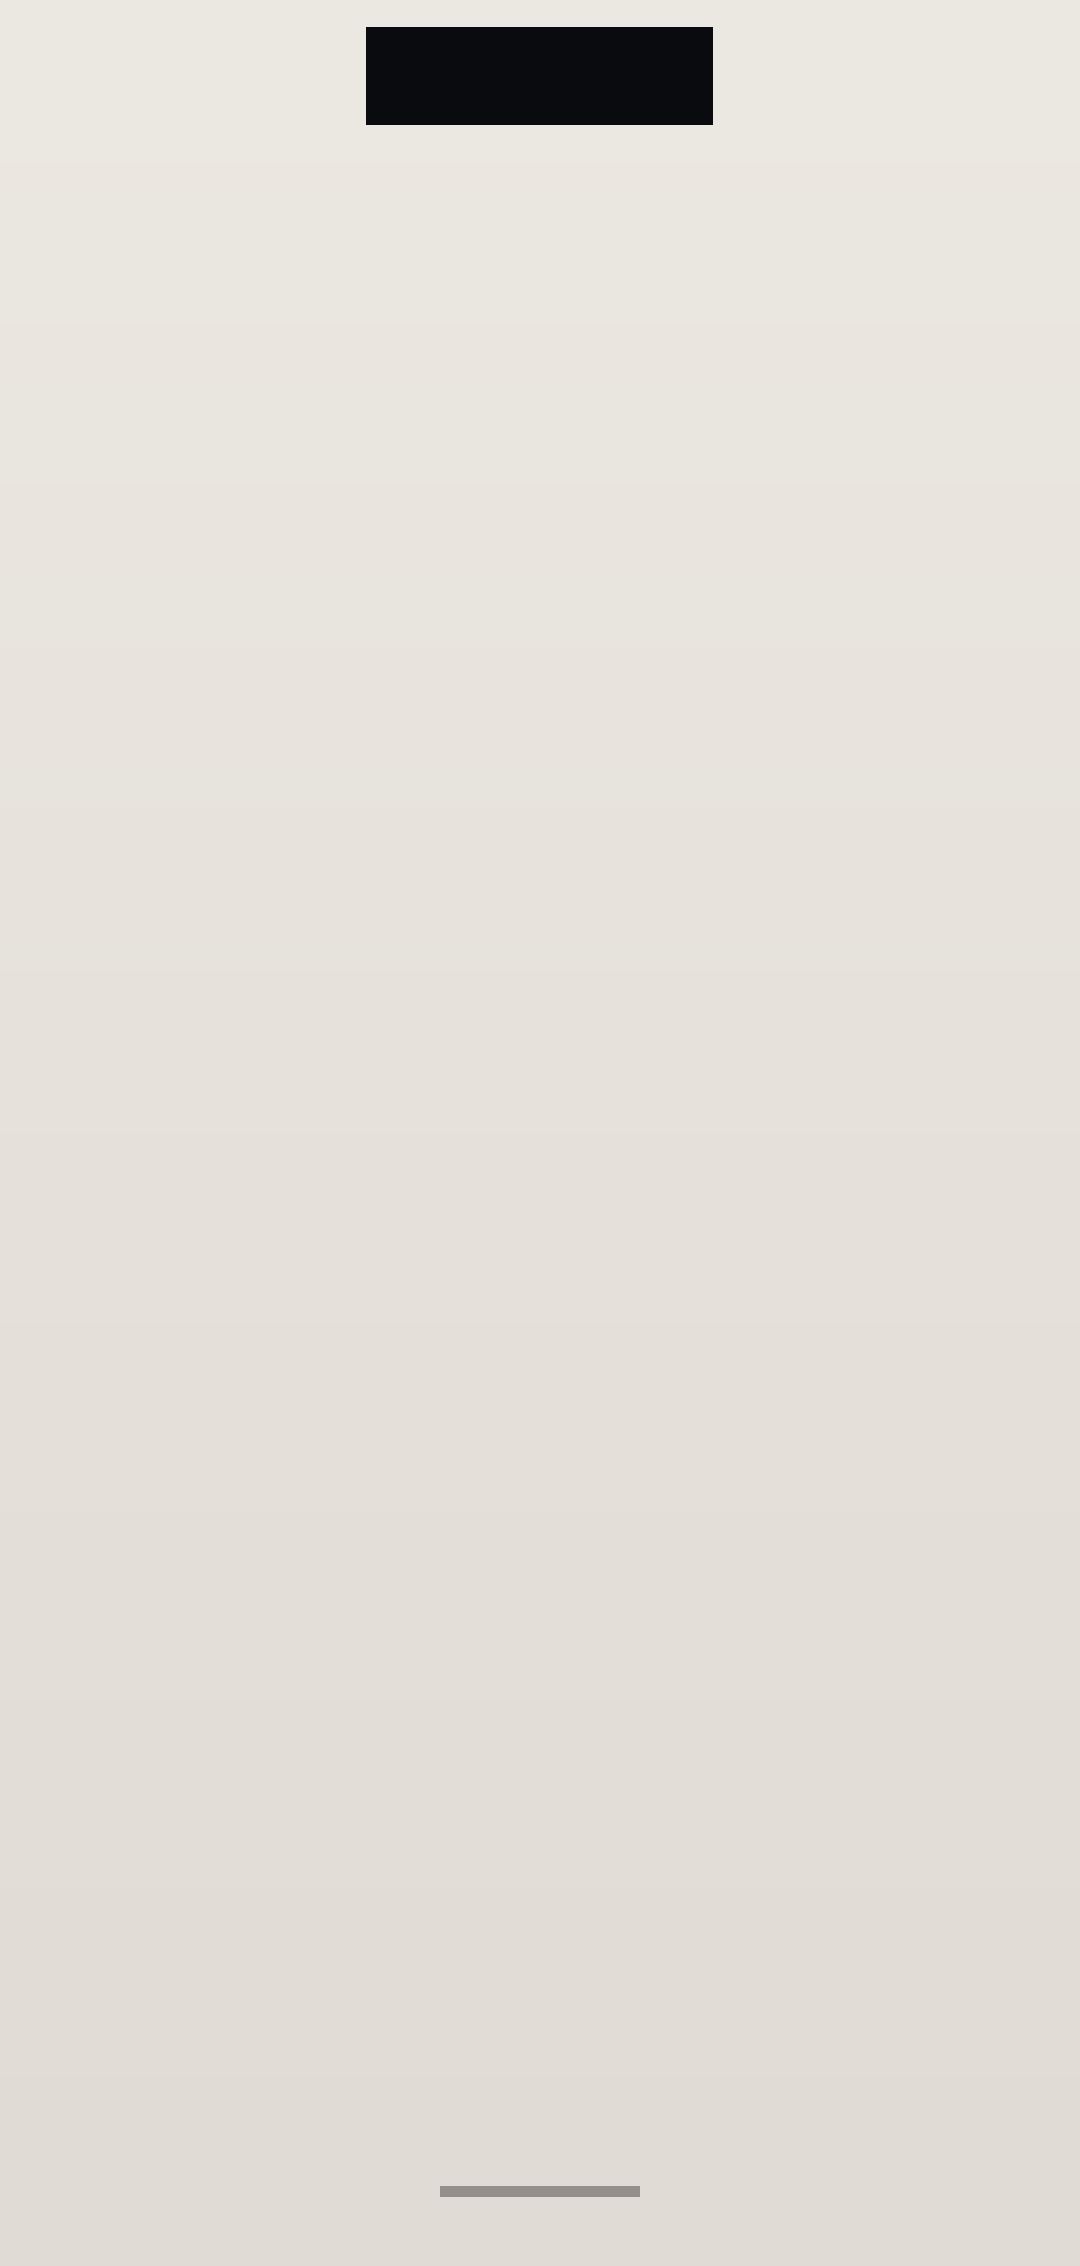
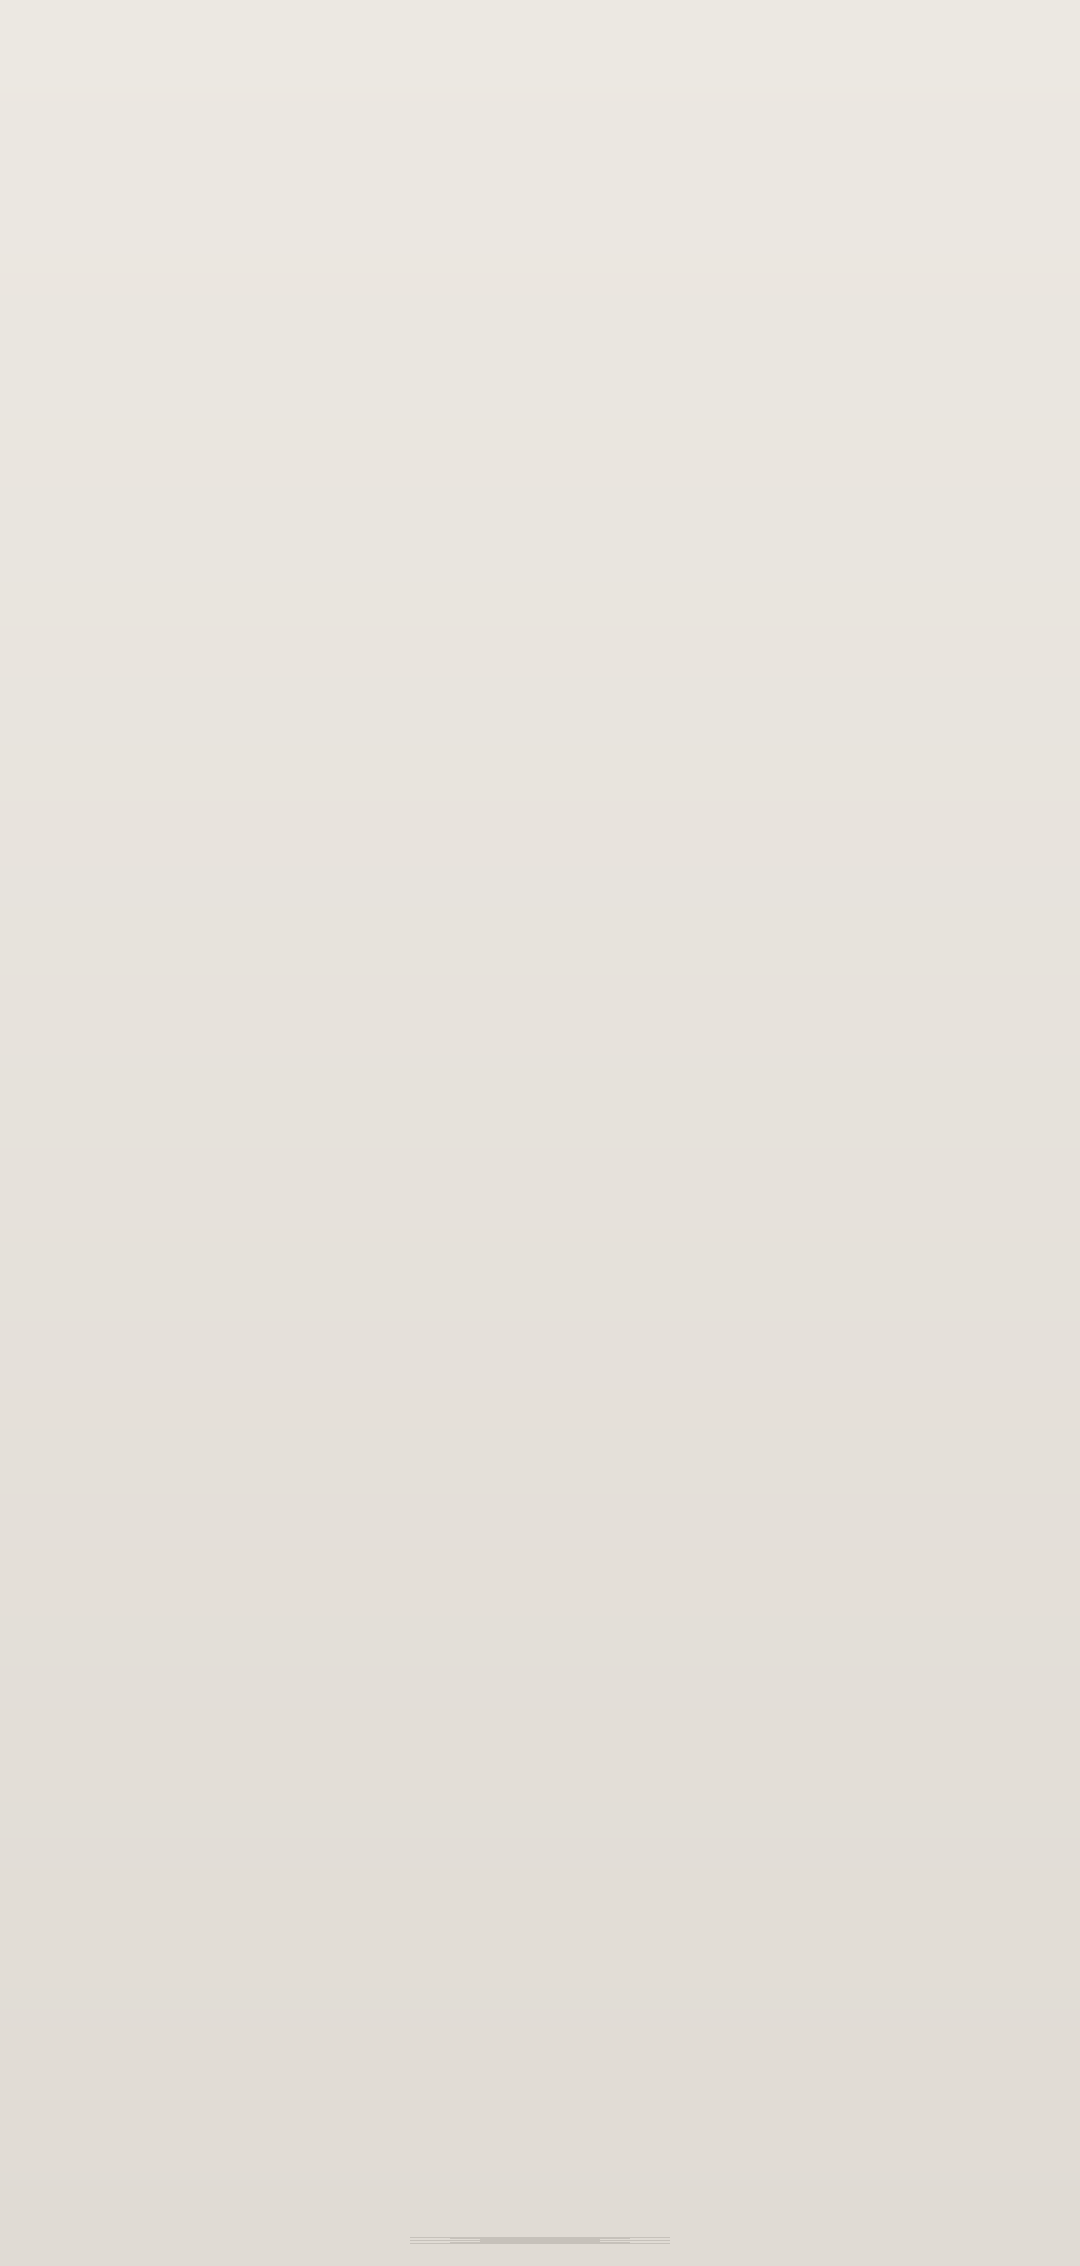
Fix front sensor (Dynamic Island) and rounded screen corners
- Render the front-facing Dynamic Island as a physical pill + camera lens on
  top of the screen (previously baked flat into the wallpaper and hidden by
  z-fighting with the OBJ's flat island at the same depth)
- Round the screen content corners to match the OBJ display cutout (0.0705
  scene units) so the cream screen follows the phone's rounded corners instead
  of showing sharp rectangle corners
- Regenerate iphone-cream.png without the baked island; add roundedRectGeometry
  helper (ShapeGeometry + normalized UVs) for texture-ready rounded screens

Changed region(s): [[0.3361, 0.0, 0.6722, 0.0618], [0.3972, 0.9576, 0.5806, 1.0]]

diff --git a/src/three/Phone/PhoneScreen.tsx b/src/three/Phone/PhoneScreen.tsx
@@ -3,7 +3,7 @@ import * as THREE from "three";
 import type { ScreenConfig } from "../../types/scene";
 import type { DisplaySurface } from "./device/DeviceModel";
 import { useScreenTexture } from "./useScreenTexture";
-import { roundedRectShape } from "./geometry";
+import { roundedRectGeometry, roundedRectShape } from "./geometry";
 
 interface PhoneScreenProps {
   display: DisplaySurface;
@@ -64,22 +64,56 @@ export function PhoneScreen({ display, screen }: PhoneScreenProps) {
 
   const glass = display.glass;
 
+  const contentGeometry = useMemo(
+    () => roundedRectGeometry(display.width, display.height, display.cornerRadius),
+    [display.width, display.height, display.cornerRadius],
+  );
+
   const glassShape = useMemo(
     () => roundedRectShape(glass.width, glass.height, glass.radius),
     [glass.width, glass.height, glass.radius],
   );
 
+  const sensor = display.sensor;
+  const islandShape = useMemo(
+    () =>
+      sensor
+        ? roundedRectShape(sensor.width, sensor.height, sensor.height / 2)
+        : null,
+    [sensor],
+  );
+
   return (
     <group>
-      {/* ScreenContent — emissive, lighting-independent */}
-      <mesh position={display.position}>
-        <planeGeometry args={[display.width, display.height]} />
+      {/* ScreenContent — emissive, lighting-independent, rounded to the display cutout */}
+      <mesh position={display.position} geometry={contentGeometry}>
         <meshBasicMaterial
           map={texture}
           color={brightness}
           toneMapped={false}
         />
       </mesh>
+
+      {/* Front sensor cluster — Dynamic Island pill + camera lens, proud of the screen */}
+      {sensor && islandShape && (
+        <group position={sensor.position}>
+          <mesh>
+            <shapeGeometry args={[islandShape]} />
+            <meshBasicMaterial color="#0a0b0e" />
+          </mesh>
+          <mesh position={[sensor.lens.x, sensor.lens.y, 0.0006]}>
+            <circleGeometry args={[sensor.lens.radius, 32]} />
+            <meshPhysicalMaterial
+              color="#16202f"
+              roughness={0.08}
+              metalness={0.7}
+              clearcoat={1}
+              clearcoatRoughness={0.1}
+              envMapIntensity={1.2}
+            />
+          </mesh>
+        </group>
+      )}
 
       {/* ScreenGlass — subtle transparent reflection, flat front with rounded perimeter */}
       <mesh

diff --git a/src/three/Phone/device/OBJPhoneBody.tsx b/src/three/Phone/device/OBJPhoneBody.tsx
@@ -25,21 +25,33 @@ const MODEL_SCALE = 0.95 / 4.041;
 
 // Front face of the model glass sits at z ≈ 0.03698 after scaling. The display
 // cutout (usemtl "Display") spans 1.8657 x 3.9139 model units -> 0.4386 x 0.9201
-// scene units, centered on the body. The screen plane fills that cutout edge to
-// edge (modern thin-bezel look); the Dynamic Island pill (y 0.409..0.449 scaled)
-// is replicated inside the wallpaper texture at the matching position.
+// scene units, centered on the body, with a corner radius of 0.30 model units
+// -> 0.0705 scene units. The screen plane fills that cutout edge to edge with the
+// same rounded corners so the metal frame stays visible as a thin bezel.
 const DISPLAY = {
   width: 0.4386,
   height: 0.9201,
-  z: 0.037,
+  cornerRadius: 0.0705,
+  z: 0.0372,
 };
 
 const GLASS = {
   width: 0.4386,
   height: 0.9201,
   thickness: 0.0008,
-  radius: 0.06,
+  radius: 0.0705,
   z: 0.0386,
+};
+
+// Front-facing sensor cluster (Dynamic Island). The OBJ "Dynamic_Iceland" group
+// is a flat pill at the same z as the screen surface, so it z-fights/hides behind
+// the screen plane. We render our own island + front camera lens just in front of
+// the screen so the sensor reads as a physical element sitting on top.
+const FRONT_SENSOR = {
+  width: 0.1412,
+  height: 0.0402,
+  position: [-0.0042, 0.4292, 0.0377] as [number, number, number],
+  lens: { x: 0.04, y: 0, radius: 0.012 },
 };
 
 interface MaterialConfig {
@@ -112,6 +124,7 @@ export const objPhoneModel: DeviceModel = {
   display: {
     width: DISPLAY.width,
     height: DISPLAY.height,
+    cornerRadius: DISPLAY.cornerRadius,
     position: [0, 0, DISPLAY.z],
     glass: {
       width: GLASS.width,
@@ -120,6 +133,7 @@ export const objPhoneModel: DeviceModel = {
       position: [0, 0, GLASS.z],
       radius: GLASS.radius,
     },
+    sensor: FRONT_SENSOR,
   },
   Body: OBJPhoneBody,
 };

diff --git a/src/three/Phone/device/DeviceModel.ts b/src/three/Phone/device/DeviceModel.ts
@@ -1,11 +1,24 @@
 import type { ComponentType } from "react";
 import type { PhoneMaterialPreset } from "../phoneConfig";
 
+export interface FrontSensor {
+  /** Dynamic Island pill width (world units). */
+  width: number;
+  /** Dynamic Island pill height (world units). */
+  height: number;
+  /** Center of the island relative to the device origin (z slightly proud of the screen). */
+  position: [number, number, number];
+  /** Front camera lens: offset from island center + radius. */
+  lens: { x: number; y: number; radius: number };
+}
+
 export interface DisplaySurface {
   /** Width of the emissive display plane (world units). */
   width: number;
   /** Height of the emissive display plane (world units). */
   height: number;
+  /** Corner radius of the emissive display plane (world units). */
+  cornerRadius: number;
   /** Center of the display plane relative to the device origin. */
   position: [number, number, number];
   /** Optional front-glass overlay (the "cristal frontal" / ScreenGlass). */
@@ -16,6 +29,8 @@ export interface DisplaySurface {
     position: [number, number, number];
     radius: number;
   };
+  /** Optional front-facing sensor cluster (Dynamic Island + camera lens). */
+  sensor?: FrontSensor;
 }
 
 export interface DeviceModel {

diff --git a/src/three/Phone/geometry.ts b/src/three/Phone/geometry.ts
@@ -28,3 +28,31 @@ export function roundedRectShape(
   shape.quadraticCurveTo(x, y, x + r, y);
   return shape;
 }
+
+/**
+ * A flat, texture-ready rounded-rectangle geometry.
+ *
+ * THREE.ShapeGeometry emits UVs equal to the shape's local coordinates (centered
+ * on the origin), not the [0,1] range a texture expects. This remaps them to
+ * [0,1] across the shape's bounding box so a screen texture maps edge-to-edge.
+ */
+export function roundedRectGeometry(
+  width: number,
+  height: number,
+  radius: number,
+): THREE.ShapeGeometry {
+  const shape = roundedRectShape(width, height, radius);
+  const geometry = new THREE.ShapeGeometry(shape, 8);
+
+  const position = geometry.getAttribute("position") as THREE.BufferAttribute;
+  const uv = geometry.getAttribute("uv") as THREE.BufferAttribute;
+
+  for (let i = 0; i < position.count; i++) {
+    const u = (position.getX(i) + width / 2) / width;
+    const v = (position.getY(i) + height / 2) / height;
+    uv.setXY(i, u, v);
+  }
+  uv.needsUpdate = true;
+
+  return geometry;
+}

diff --git a/src/three/Phone/device/ProceduralPhoneBody.tsx b/src/three/Phone/device/ProceduralPhoneBody.tsx
@@ -45,6 +45,7 @@ const GLASS = {
 const DISPLAY = {
   width: 0.412,
   height: 0.915,
+  cornerRadius: 0.04,
   z: 0.0105, // screen plane, just in front of the bezel
 };
 
@@ -273,6 +274,7 @@ export const proceduralPhoneModel: DeviceModel = {
   display: {
     width: DISPLAY.width,
     height: DISPLAY.height,
+    cornerRadius: DISPLAY.cornerRadius,
     position: [0, 0, DISPLAY.z],
     glass: {
       width: GLASS.width,
